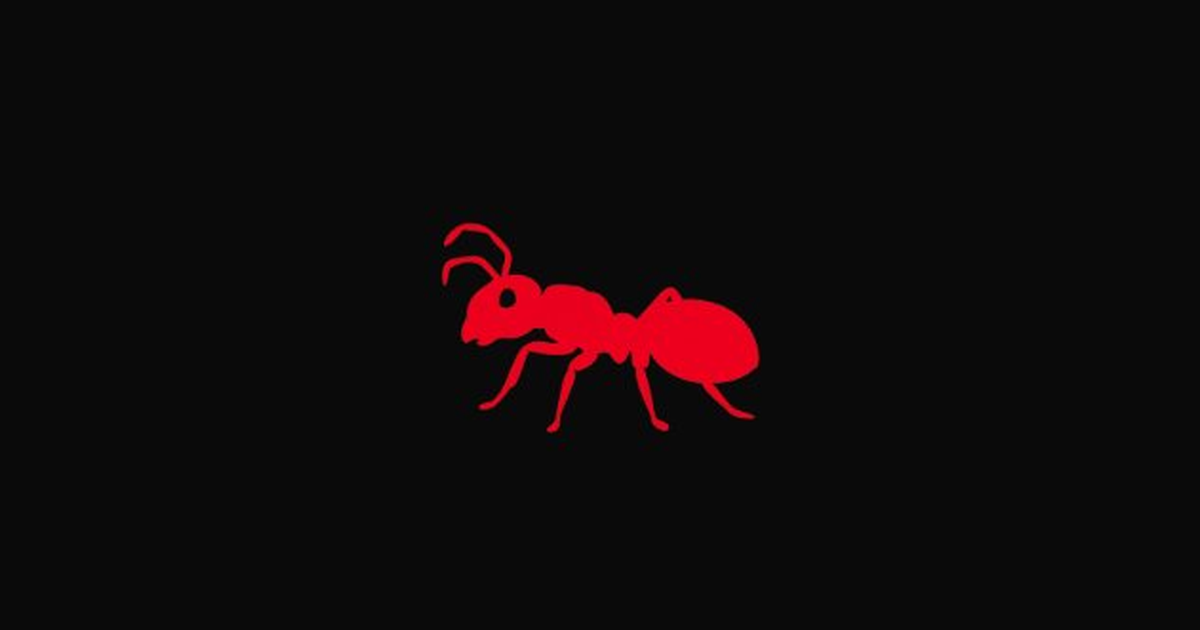
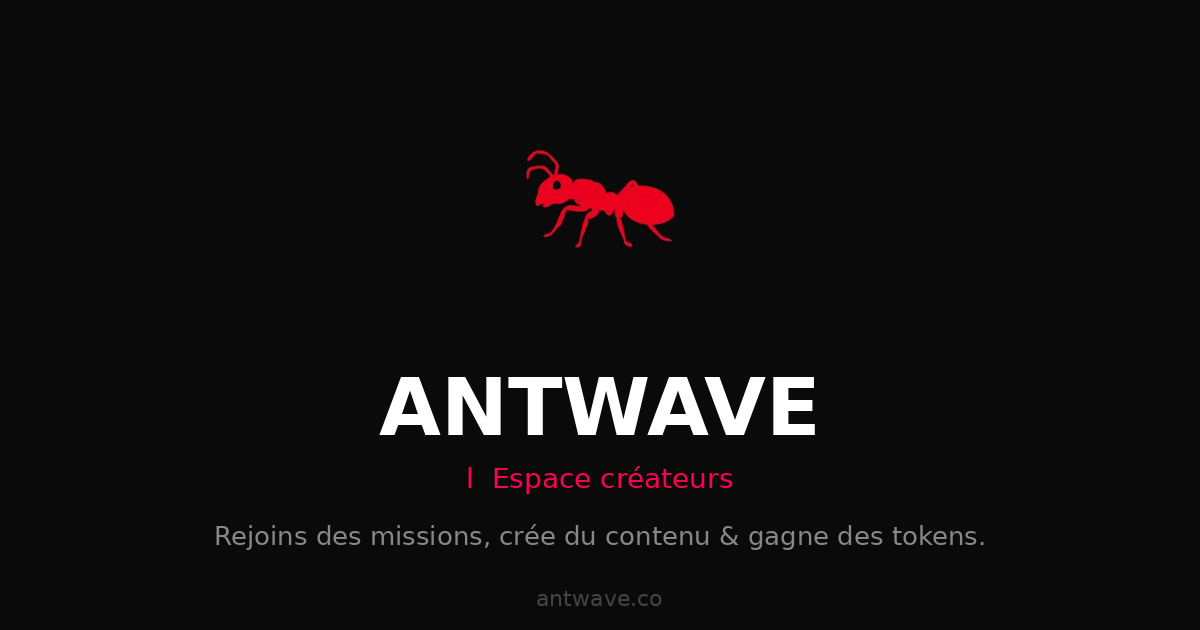
Add files via upload

diff --git a/admin.html b/admin.html
@@ -11,8 +11,8 @@
 <link rel="manifest" href="/site.webmanifest">
 <meta name="theme-color" content="#FF0050">
 <meta property="og:image" content="/og-image.png">
-<meta property="og:title" content="Antwave — Plateforme créateurs TikTok">
-<meta property="og:description" content="Missions, tokens et paiements pour créateurs TikTok.">
+<meta property="og:title" content="Antwave l Espace créateurs">
+<meta property="og:description" content="Rejoins des missions, crée du contenu &amp; gagne des tokens.">
 <link href="https://fonts.googleapis.com/css2?family=Bebas+Neue&family=DM+Sans:wght@300;400;500&display=swap" rel="stylesheet">
 <style>
   *, *::before, *::after { box-sizing: border-box; margin: 0; padding: 0; }

diff --git a/dashboard.html b/dashboard.html
@@ -11,8 +11,8 @@
 <link rel="manifest" href="/site.webmanifest">
 <meta name="theme-color" content="#FF0050">
 <meta property="og:image" content="/og-image.png">
-<meta property="og:title" content="Antwave — Plateforme créateurs TikTok">
-<meta property="og:description" content="Missions, tokens et paiements pour créateurs TikTok.">
+<meta property="og:title" content="Antwave l Espace créateurs">
+<meta property="og:description" content="Rejoins des missions, crée du contenu &amp; gagne des tokens.">
 <link href="https://fonts.googleapis.com/css2?family=Bebas+Neue&family=DM+Sans:wght@300;400;500&display=swap" rel="stylesheet">
 <style>
   *, *::before, *::after { box-sizing: border-box; margin: 0; padding: 0; }

diff --git a/index.html b/index.html
@@ -11,8 +11,8 @@
 <link rel="manifest" href="/site.webmanifest">
 <meta name="theme-color" content="#FF0050">
 <meta property="og:image" content="/og-image.png">
-<meta property="og:title" content="Antwave — Plateforme créateurs TikTok">
-<meta property="og:description" content="Missions, tokens et paiements pour créateurs TikTok.">
+<meta property="og:title" content="Antwave l Espace créateurs">
+<meta property="og:description" content="Rejoins des missions, crée du contenu &amp; gagne des tokens.">
 <link href="https://fonts.googleapis.com/css2?family=Bebas+Neue&family=DM+Sans:wght@300;400;500&display=swap" rel="stylesheet">
 <style>
   *, *::before, *::after { box-sizing: border-box; margin: 0; padding: 0; }

diff --git a/inscription.html b/inscription.html
@@ -11,8 +11,8 @@
 <link rel="manifest" href="/site.webmanifest">
 <meta name="theme-color" content="#FF0050">
 <meta property="og:image" content="/og-image.png">
-<meta property="og:title" content="Antwave — Plateforme créateurs TikTok">
-<meta property="og:description" content="Missions, tokens et paiements pour créateurs TikTok.">
+<meta property="og:title" content="Antwave l Espace créateurs">
+<meta property="og:description" content="Rejoins des missions, crée du contenu &amp; gagne des tokens.">
 <link href="https://fonts.googleapis.com/css2?family=Bebas+Neue&family=DM+Sans:wght@300;400;500&display=swap" rel="stylesheet">
 <style>
   *, *::before, *::after { box-sizing: border-box; margin: 0; padding: 0; }
